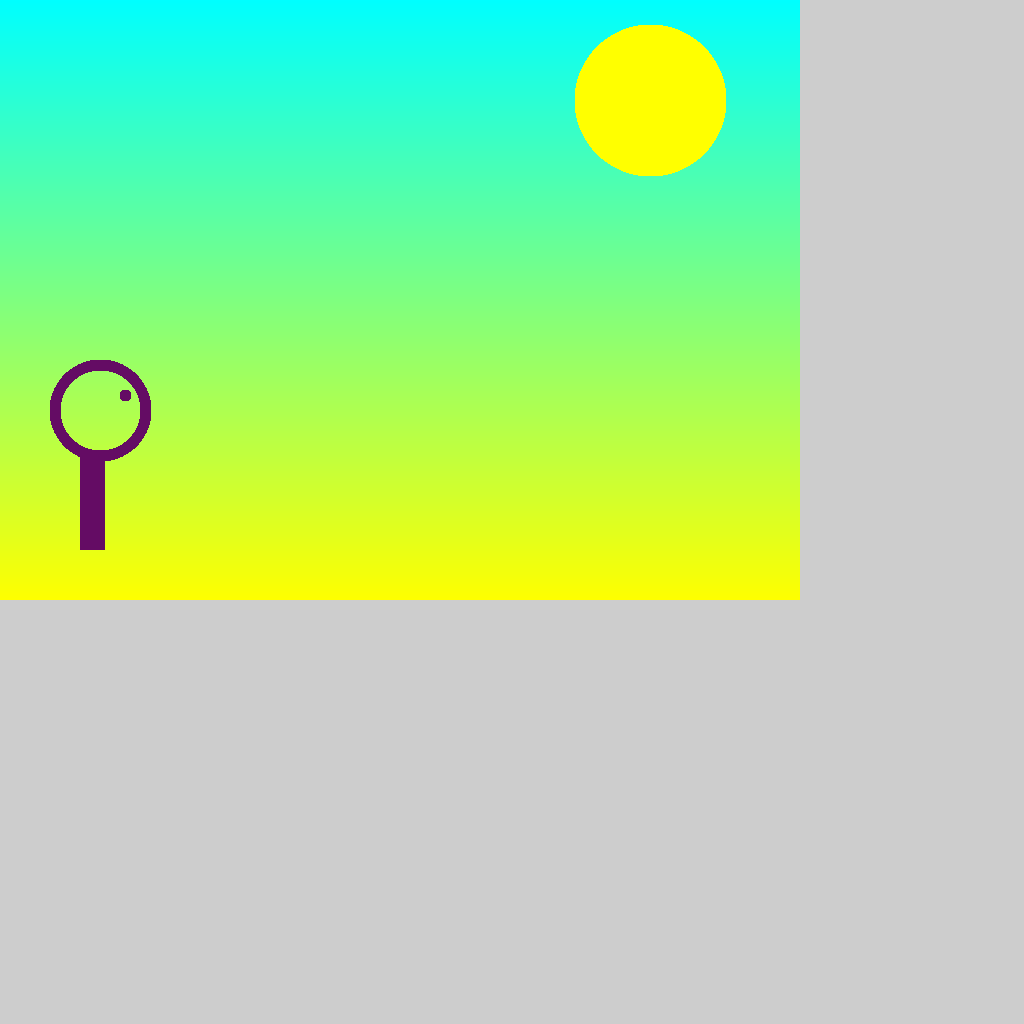
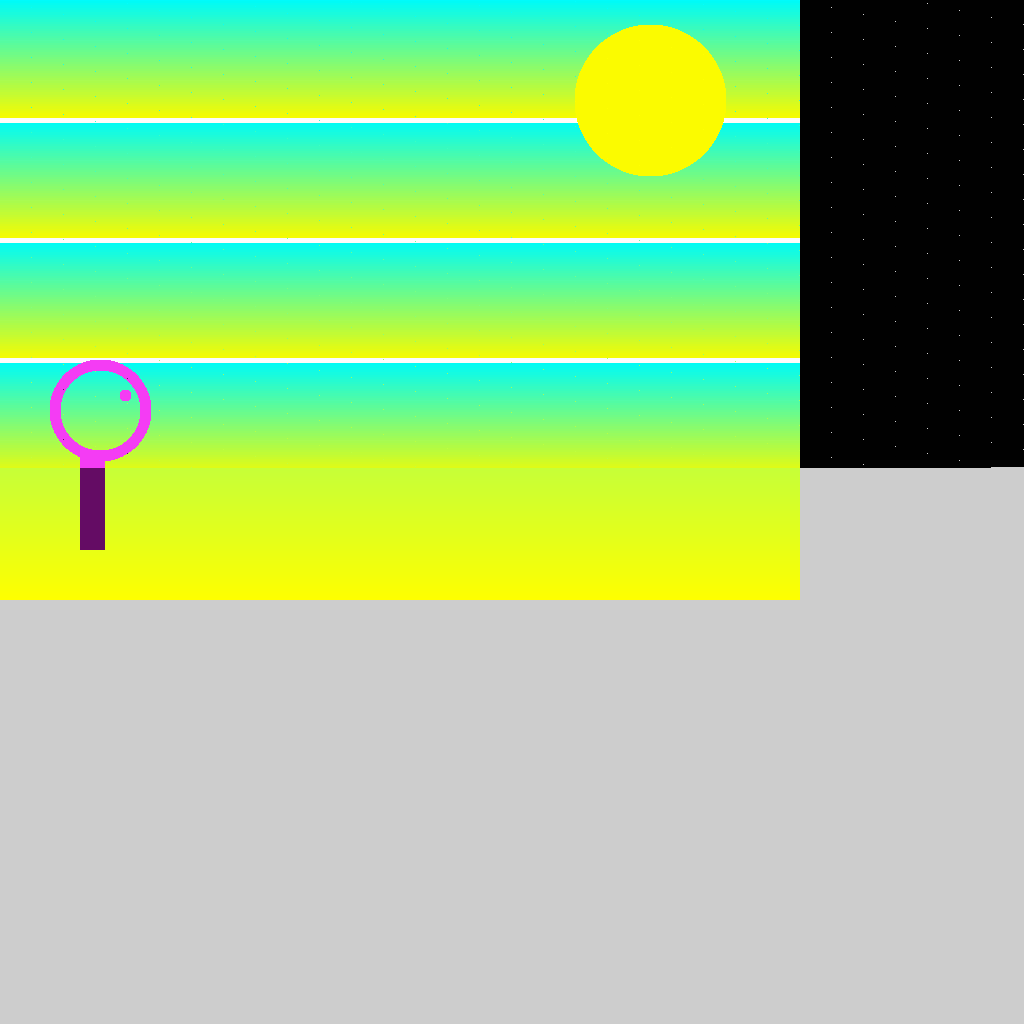
code updates from Scott
I think I left all the Cinder file paths as they were so this project
should reload in your machine.

diff --git a/src/HW01App.cpp b/src/HW01App.cpp
@@ -27,13 +27,57 @@ private:
 	int frame_number_;
 	boost::posix_time::ptime app_start_time_;
 
+	// Dimensions of Surface and Texture
 	static const int appWidth = 800;
 	static const int appHeight = 600;
 	static const int textureSize = 1024;
-	void rectangle(uint8_t* pixels, int startx, int starty, int width, int height, Color8u fill);
+
+	
+	/**
+	* This method draws a rectangle of width x height as given by the call 
+	* pixels: the surface array
+	* startx: beginning x coordinate
+	* starty: beginning y coordinate
+	* width: the width of rectangle
+	* height: height of rectangle
+	* fill: the (r,g,b) color
+	*/
+	void rectangle(uint8_t* pixels, int startX, int startY, int width, int height, Color8u fill);
+
+
+	/**
+	* This method draws a gradient across the Surface
+	* pixels: the surface array
+	* c1: the (r,g,b) color
+	* c2: the (r,g,b) color	
+	*/
 	void gradient(uint8_t* pixels, Color8u c1, Color8u c2);
+
+
+	/**
+	* This method tints the Surface 
+	* pixels: the surface array
+	* color: the (r,g,b) color used to tint the underlying image
+	*/
 	void tint(uint8_t* pixels, Color8u color);
-	void circle(uint8_t* pixels, int centerx, int centery, int radius, int thickness, Color8u color);
+
+
+	/**
+	* This method draws a circle of radius  
+	* pixels: the surface array
+	* centerX: beginning x coordinate
+	* centerY: beginning y coordinate
+	* radius: the radius of the circle from the (centerx, centery) coordinate
+	* thickness: thickness of circle
+	* color: the (r,g,b) color of the circle
+	*/
+	void circle(uint8_t* pixels, int centerX, int centerY, int radius, int thickness, Color8u color);
+	
+
+	/**
+	* This method  imposes a convolution filter on the underlying image
+	* pixels: the surface array to be convolved
+	*/
 	void blur(uint8_t* pixels);
 };
 
@@ -43,34 +87,47 @@ void HW01App::prepareSettings(Settings* settings){
 }
 
 // The rectangle method. Displays a rectangle.
-void HW01App::rectangle(uint8_t* pixels, int startx, int starty, int width, int height, Color8u fill){
-	int x;
-	int y;
+void HW01App::rectangle(uint8_t* pixels, int startX, int startY, int width, int height, Color8u fill){
+
+	int x, y;
+
+	// bounds checking
+	// I could also write this with a (xBegin, yBegin) and (xEnd, yEnd) so that way I can more easily check for boundry errors
+	if ((startX + width <= appWidth) && (startY + height <= appHeight )) {
 
 	// to create the rectangle
-	for (y = starty; y < (starty + height); y++){
-		for(x = startx; x < (startx + width); x++){
-			pixels[3*(x + y * textureSize)] = fill.r;
-			pixels[3*(x + y * textureSize) + 1] = fill.g;
-			pixels[3*(x + y * textureSize) + 2] = fill.b;
-		}
-	}
+			for (y = startY; y < (startY + height); y++){
+				for(x = startX; x < (startX + width); x++){
+					pixels[3*(x + y * textureSize)] = fill.r;
+					pixels[3*(x + y * textureSize) + 1] = fill.g;
+					pixels[3*(x + y * textureSize) + 2] = fill.b;
+				}
+			}
+
+	} //end if
 }
 
+
 // The circle method! I thought it would be fun to make the line thickness variable, so I did.
-void HW01App::circle(uint8_t* pixels, int centerx, int centery, int radius, int thickness, Color8u color){
+void HW01App::circle(uint8_t* pixels, int centerX, int centerY, int radius, int thickness, Color8u color){
 	if (radius <= 0) 
 		return;
-	for(int y = centery - radius; y <= centery + radius; y++){
-		for(int x = centerx - radius; x <= centerx + radius; x++){
-			int dist = (int)sqrt((double)((x-centerx)*(x-centerx) + (y-centery)*(y-centery)));
+
+	// bounds checking
+	if ((centerX + radius <= appWidth) && (centerY + radius <= appHeight )) {
+
+	for(int y = centerY - radius; y <= centerY + radius; y++){
+		for(int x = centerX - radius; x <= centerX + radius; x++){
+			int dist = (int)sqrt((double)((x-centerX)*(x-centerX) + (y-centerY)*(y-centerY)));
 			if (dist <= radius && dist >= radius-thickness){
 				pixels[3*(x + y * textureSize)] = color.r;
 				pixels[3*(x + y * textureSize) + 1] = color.g;
 				pixels[3*(x + y * textureSize) + 2] = color.b;
+				} // end loop if
 			}
 		}
-	}
+
+	} // end top if
 }
 	
 // Method for the color gradient.
@@ -90,55 +147,78 @@ void HW01App::gradient(uint8_t* pixels, Color8u c1, Color8u c2){
 	}
 }
 
+
 // Color tint method
 void HW01App::tint(uint8_t* pixels, Color8u color){
 	for(int y = 0; y < appHeight ; y++){
 		for(int x = 0; x < appWidth; x++){
-			pixels[3*(x + y*textureSize)] += color.r;
+			pixels[3*(x + y*textureSize)]   += color.r;
 			pixels[3*(x + y*textureSize)+1] += color.g;
 			pixels[3*(x + y*textureSize)+2] += color.b;
 		}
 	}
 }
 
-/* Attempted blur method; no matter what I tried, I couldn't quite get this
-to work right. Some cool stuff happened while I was messing with it, but nothing
-was actually convoluting the image.
-*/
+
+
 void HW01App::blur(uint8_t* pixels){
 	static uint8_t work_buffer[3*textureSize*textureSize];
-	//memcpy(work_buffer, mySurface_ , 3*textureSize*textureSize);
-		// For some reason, this made the image "stop working."
+
+	//copy pixels (the Surface) into the work_buffer pseudo-array
+	memcpy(work_buffer, pixels, (3*textureSize*textureSize) );
+		
 
 	int x;
 	int y;
-	int innerx;
-	int innery;
+	int innerX;
+	int innerY;
 	int offset;
 	int offset2;
 	int k;
+	
+	// counters for the running sum of the pixel which is being convolved
 	uint8_t total_red  =0;
 	uint8_t total_green=0;
 	uint8_t total_blue =0;
+
+	// blur kernel
 	float kernelA[9] = {1.0/9.0, 1.0/9.0, 1.0/9.0, 1.0/9.0, 1.0/9.0, 1.0/9.0, 1.0/9.0, 1.0/9.0, 1.0/9.0};
+	// edge kernel
 	uint8_t kernelB[9] = {1, 0, 1, 1, -1, 1, 1, 0, 1};
 
-	for(y = 1; y < appHeight - 1; y++){
-		for(x = 1; x < appWidth - 1; x++){
+	
+	// outer loop to iterate across image
+	for(y = 0; y < appHeight - 1; y++){
+		for(x = 0; x < appWidth - 1; x++){
+			
+			//update the offset to the next pixel in RowMajorOrder
 			offset = 3*(x + y * appWidth);
+			
+			//reset the sum to 0 for each new pixel
 			total_red = 0;
 			total_green = 0;
 			total_blue = 0;
-			for(innery = y - 1; innery <= y + 1; innery++){
-				for(innerx = x - 1; innerx <= x + 1; innerx++){
-					offset2 = 3*((x + innerx) + (y + innery)*textureSize);
-					k = kernelB[innerx + 1 + (innery + 1) * 3];
-					total_red   += (work_buffer[offset2  ] * k);
-					total_green += (work_buffer[offset2+1] * k);
-					total_blue  += (work_buffer[offset2+2] * k);
+			
+			//start iterating thru the kernel. the kernel's bounds are (-1,-1) to (1,1)
+			 for(innerY = -1; innerY <=  1; innerY++){
+				for(innerX = -1; innerX <=  1; innerX++){			
+					
+					// set the offset for the kernel in relation to the texture, not really necessary
+					//offset2 = 3*((x + innerX) + (y + innerY)*textureSize);
+					
+					// set the index of the kernel. have to +1 to actually start at (0,0) and end at (2,2)
+					k = kernelB[innerX + 1 + ((innerY + 1) * 3)];
+									
+					// sum the multiplication of the kernel value on each color of the pixel
+					total_red   += (work_buffer[offset  ] * k);
+					total_green += (work_buffer[offset+1] * k);
+					total_blue  += (work_buffer[offset+2] * k);
+
+					
 				}
 			}
-			offset = 3*(x + y * textureSize);
+			
+			// Assign the complete sum to the single pixel to create the new image
 			pixels[offset] = total_red;
 			pixels[offset + 1] = total_green;
 			pixels[offset + 2] = total_blue;
@@ -171,7 +251,8 @@ void HW01App::update()
 	circle(dataArray, 100, 410, 50, 10, Color8u(100, 12, 100));
 	circle(dataArray, 125, 395, 5, 5, Color8u(100, 12, 100));
 
-	//blur(dataArray);
+	// call the blur funtion
+	blur(dataArray);
 
 	// Saves the first frame of the image
 	if(frame_number_ == 0){
